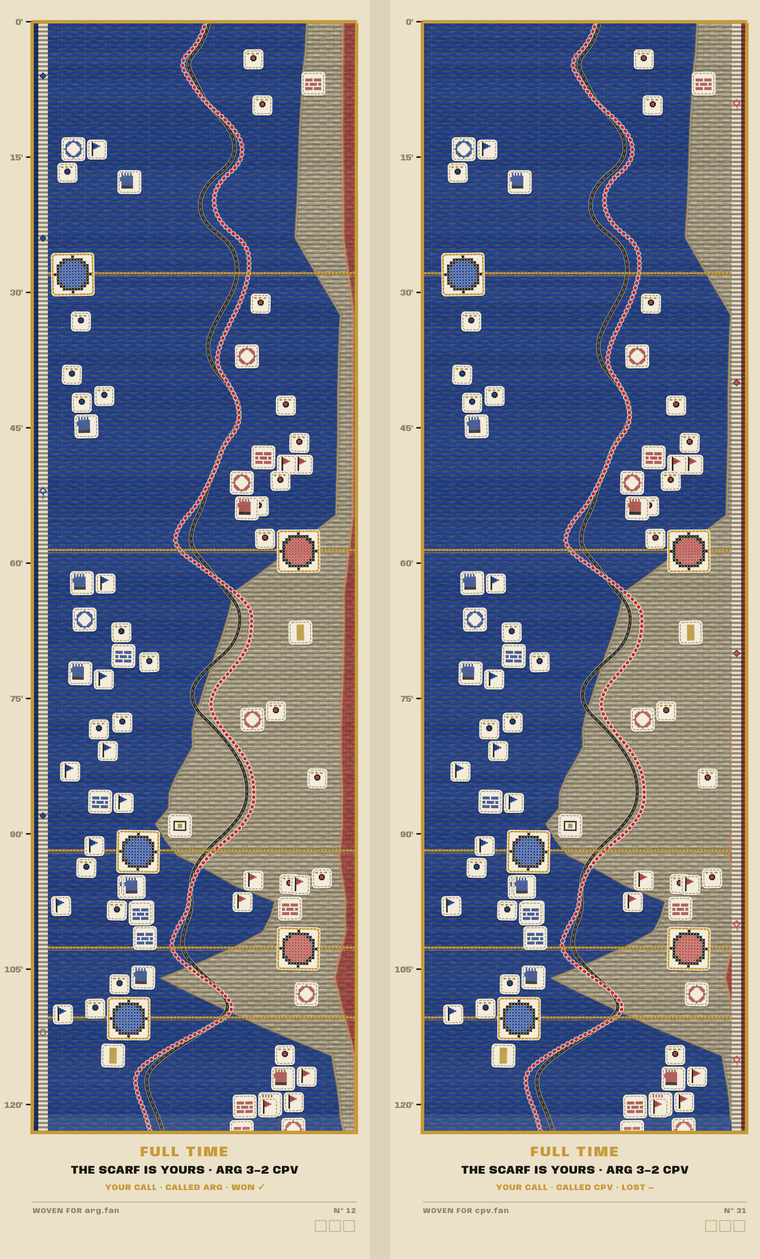
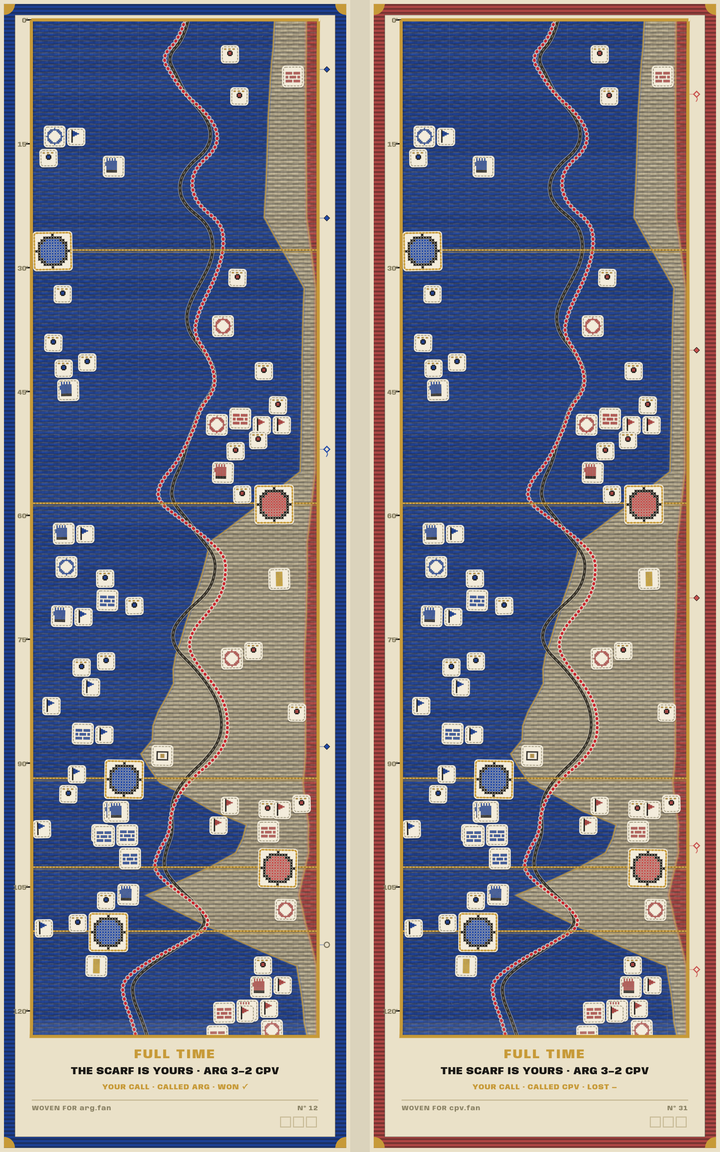
loom: personalisation redesign — fan-colour frames the whole scarf (additive)
Owner notes addressed: (1) the old selvage+tape sat ON the cloth and ate the edge odds (an
away/CPV fan's thin red band was hidden) → personalisation is now ADDITIVE, in the margin, and
the woven odds run edge-to-edge again (widened W 340→352, gx0 32, symmetric 32px margins, event
zones back to full width). (2) the rooted team now keys a bold colour FRAME around the WHOLE
scarf (blue for ARG, red for CPV) with gold Bauhaus quarter-disc corners + an inner keyline.
(3) calls knot in the paper channel just inside the frame (held/broke/void, connector to the
cloth edge); minutes moved to the left channel. Same match ⇒ identical cloth, different frame.
Prototype refreshed (scarf-two-fans.png). Review pending.

diff --git a/apps/web/public/woven-loom.html b/apps/web/public/woven-loom.html
@@ -277,7 +277,7 @@ html.lexport .ksFrame{animation:none;stroke-dashoffset:0}  /* and the gold selva
     return null; }
 
   // ---------- layout ----------
-  var W=340, top=20, botpad=26, SEALPAD=104;
+  var W=352, top=20, botpad=26, SEALPAD=104;   // wider: room for the fan-colour frame + the calls channel in the margin (the cloth's odds stay edge-to-edge)
   var loomEl=document.getElementById('loomv');
   var GOALOPT=Q.get('goalopt')||'b';   // goals read as goals (owner): weft + king, no score tab. a = +score tabs · c = king alone
   var MARKS=Q.get('marks')||'chip';    // chip = printed backing tags · cloth = stitched straight into the bands (L11 feasibility)
@@ -296,7 +296,7 @@ html.lexport .ksFrame{animation:none;stroke-dashoffset:0}  /* and the gold selva
   var possPts=[], dgrPts=[], placedMeta=[];   // last-render geometry — the cloth answers taps from these
   var TAG=null, TAGT=null;             // the one printed tag a tapped stitch pins up
   function H(){ return top+(SEALED?(SEALPAD+(PENS&&PENS.winner?12:0)+(KS.call&&KS.call.label?12:0)):botpad)+ M.dur*8.3; }   // ~8.3 px/min → the tall cloth; the sealed keepsake adds a foot for its seal
-  var gx0=30, grW=W-gx0-12;
+  var gx0=32, grW=W-gx0-32;   // symmetric 32px each side: outer(4) + fan frame(11) + channel(17) — minutes left, calls right
   function ty(m){ return top + m*8.3; }
   function gx(p){ return gx0+grW*(p/100); }
   function interp(arr,m,k){ if(!arr.length)return 50; if(m<=arr[0][0])return arr[0][k]; var L=arr.length; if(m>=arr[L-1][0])return arr[L-1][k];
@@ -532,8 +532,7 @@ html.lexport .ksFrame{animation:none;stroke-dashoffset:0}  /* and the gold selva
       svg+='<line x1="'+gx0+'" y1="'+(y-1.1).toFixed(1)+'" x2="'+(gx0+grW)+'" y2="'+(y-1.1).toFixed(1)+'" stroke="'+shade('#C79A38',1.35)+'" stroke-width="0.7" opacity="0.6" stroke-dasharray="1.2 2.1" stroke-dashoffset="1.6"/>';
       svg+='<line x1="'+gx0+'" y1="'+(y+1.3).toFixed(1)+'" x2="'+(gx0+grW)+'" y2="'+(y+1.3).toFixed(1)+'" stroke="#C79A38" stroke-width="0.9" opacity="0.5"/>'; });
     // events (thirds · sub-minute x · de-conflict)
-    var RGUT=16;   // fixed inset on BOTH edges — the match's own event tiles land in the SAME place for every fan (the cloth is objective); only the rooted margin's selvage + calls differ per person
-    var SW=grW*0.40, MIDW=grW*0.20, ZONE={h:[gx0+RGUT,gx0+SW],a:[gx0+SW+MIDW,gx0+grW-RGUT],'null':[gx0+SW,gx0+SW+MIDW]};
+    var SW=grW*0.40, MIDW=grW*0.20, ZONE={h:[gx0,gx0+SW],a:[gx0+SW+MIDW,gx0+grW],'null':[gx0+SW,gx0+SW+MIDW]};   // full width — the match's tiles use the whole cloth; personalisation lives in the margin, never on the weave
     function gs(t){return t==='goal'?2.7:(t==='freekick'||t==='corner')?1.05:1.32;}   // slightly smaller across the board (owner); the goal stays king
     var placed=[];
     EVS.sort(function(p,q){return (p.m-q.m)||((p.t==='goal'?0:1)-(q.t==='goal'?0:1));}).forEach(function(ev){
@@ -568,31 +567,33 @@ html.lexport .ksFrame{animation:none;stroke-dashoffset:0}  /* and the gold selva
       svg+='<text x="'+tx.toFixed(1)+'" y="'+(y+3.8).toFixed(1)+'" text-anchor="middle" font-family="Anybody" font-weight="900" font-size="10.5" fill="#1A1815">'+g.sc+'</text>'; });
     // the settle window breathes — a whisper of light on the newest rows only (never below the edge)
     svg+='<rect id="shimm" x="'+gx0+'" y="'+Math.max(top,ty(M.t)-16.6).toFixed(1)+'" width="'+grW+'" height="16.6" fill="#FFFFFF" opacity="0.05"/>';
-    // ---- THE ROOTED SELVAGE + YOUR CALLS — the fan's own edge (personalisation; real resolved marks only) ----
-    if(ROOT){ var rk=(ROOT==='home')?HOME:AWAY,
-        selX=(ROOT==='home')?gx0:(gx0+grW-5),          // the keyed selvage: 5px of the rooted team's dye at the very edge
-        keyX=(ROOT==='home')?(gx0+5):(gx0+grW-5),        // ink keyline between selvage and the calls tape
-        gutX=(ROOT==='home')?(gx0+5):(gx0+grW-14),       // the calls tape: a woven cream channel (9px) so knots read on ANY ground
-        knx=(ROOT==='home')?(gx0+9.5):(gx0+grW-9.5);     // knots centred in the tape
-      svg+='<rect x="'+selX.toFixed(1)+'" y="'+top+'" width="5" height="'+ch.toFixed(1)+'" fill="'+shade(rk,0.72)+'"/>';   // deep dye — reads as a keyed border even when the band beside it is the same team colour (home fan)
-      svg+='<rect x="'+selX.toFixed(1)+'" y="'+top+'" width="5" height="'+ch.toFixed(1)+'" fill="url(#tone)" color="'+shade(rk,1.15)+'" opacity="0.5"/>';
-      svg+='<rect x="'+gutX.toFixed(1)+'" y="'+top+'" width="9" height="'+ch.toFixed(1)+'" fill="#E9DFC7"/>';
-      svg+='<rect x="'+gutX.toFixed(1)+'" y="'+top+'" width="9" height="'+ch.toFixed(1)+'" fill="url(#tone)" color="#D8CBAA" opacity="0.45"/>';
-      svg+='<line x1="'+keyX.toFixed(1)+'" y1="'+top+'" x2="'+keyX.toFixed(1)+'" y2="'+(top+ch).toFixed(1)+'" stroke="#1A1815" stroke-width="0.7" opacity="0.5"/>';
-      // held = a tied knot in your colour · broke = an open dropped stitch · void = a faint loop (the match never answered)
-      CALLS.forEach(function(c){ if(c.m==null)return; var y=ty(c.m); if(y<top+2||y>top+ch-2)return; var d=2.9, DM='M '+knx.toFixed(1)+' '+(y-d).toFixed(1)+' L '+(knx+d).toFixed(1)+' '+y.toFixed(1)+' L '+knx.toFixed(1)+' '+(y+d).toFixed(1)+' L '+(knx-d).toFixed(1)+' '+y.toFixed(1)+' Z';
+    svg+='</g></g>';   // end reveal clip, end cloth silhouette
+
+    // ---- THE FAN'S FRAME + CALLS — your team's colour borders the WHOLE scarf; your calls knot in the
+    //      channel just inside it. ADDITIVE: it lives in the margin, never over the woven odds. ----
+    if(ROOT){ var rk=(ROOT==='home')?HOME:AWAY, fo=4, FW=11, fi=fo+FW, yb=HH-fo, frim=shade(rk,0.88), flit=shade(rk,1.16);
+      function frect(x,y,w,hh){ svg+='<rect x="'+x.toFixed(1)+'" y="'+y.toFixed(1)+'" width="'+w.toFixed(1)+'" height="'+hh.toFixed(1)+'" fill="'+frim+'"/><rect x="'+x.toFixed(1)+'" y="'+y.toFixed(1)+'" width="'+w.toFixed(1)+'" height="'+hh.toFixed(1)+'" fill="url(#tone)" color="'+flit+'" opacity="0.4"/>'; }
+      frect(fo,fo,W-2*fo,FW); frect(fo,HH-fi,W-2*fo,FW); frect(fo,fo,FW,HH-2*fo); frect(W-fi,fo,FW,HH-2*fo);
+      svg+='<rect x="'+fi+'" y="'+fi+'" width="'+(W-2*fi)+'" height="'+(HH-2*fi).toFixed(1)+'" fill="none" stroke="#1A1815" stroke-width="0.8" opacity="0.38"/>';   // inner keyline
+      var cr=FW;   // Bauhaus corners — a gold quarter-disc nested in each corner of the frame
+      svg+='<path d="M '+fo+' '+fo+' L '+(fo+cr)+' '+fo+' A '+cr+' '+cr+' 0 0 1 '+fo+' '+(fo+cr)+' Z" fill="#C79A38"/>';
+      svg+='<path d="M '+(W-fo)+' '+fo+' L '+(W-fo)+' '+(fo+cr)+' A '+cr+' '+cr+' 0 0 1 '+(W-fo-cr)+' '+fo+' Z" fill="#C79A38"/>';
+      svg+='<path d="M '+fo+' '+yb+' L '+fo+' '+(yb-cr)+' A '+cr+' '+cr+' 0 0 1 '+(fo+cr)+' '+yb+' Z" fill="#C79A38"/>';
+      svg+='<path d="M '+(W-fo)+' '+yb+' L '+(W-fo-cr)+' '+yb+' A '+cr+' '+cr+' 0 0 1 '+(W-fo)+' '+(yb-cr)+' Z" fill="#C79A38"/>';
+      // your calls — knotted in the paper channel between the cloth edge and the frame (never over the odds)
+      var cedge=gx0+grW, knx=cedge+(W-fi-cedge)/2, rev=ty(M.t)*(typeof unroll==='number'?unroll:1);
+      CALLS.forEach(function(c){ if(c.m==null)return; var y=ty(c.m); if(y<top+2||y>rev+1)return; var d=2.9, DM='M '+knx.toFixed(1)+' '+(y-d).toFixed(1)+' L '+(knx+d).toFixed(1)+' '+y.toFixed(1)+' L '+knx.toFixed(1)+' '+(y+d).toFixed(1)+' L '+(knx-d).toFixed(1)+' '+y.toFixed(1)+' Z';
+        svg+='<line x1="'+(cedge+1).toFixed(1)+'" y1="'+y.toFixed(1)+'" x2="'+(knx-d-0.4).toFixed(1)+'" y2="'+y.toFixed(1)+'" stroke="'+rk+'" stroke-width="0.7" opacity="0.5"/>';
         if(c.hit===true){ svg+='<path d="'+DM+'" fill="'+rk+'" stroke="#1A1815" stroke-width="0.5"/>'; }
-        else if(c.hit===false){ svg+='<path d="'+DM+'" fill="none" stroke="'+rk+'" stroke-width="1.1"/>';
-          svg+='<path d="M '+knx.toFixed(1)+' '+(y+d).toFixed(1)+' q 1.7 2.3 -0.7 4.5" fill="none" stroke="'+rk+'" stroke-width="0.9" opacity="0.8"/>'; }
-        else { svg+='<circle cx="'+knx.toFixed(1)+'" cy="'+y.toFixed(1)+'" r="'+(d-0.3).toFixed(1)+'" fill="none" stroke="#6E6752" stroke-width="1.1" opacity="0.9"/>'; }   // void: faint-but-present grey ring — survives phone scale, never reads as an outcome
+        else if(c.hit===false){ svg+='<path d="'+DM+'" fill="none" stroke="'+rk+'" stroke-width="1.1"/><path d="M '+knx.toFixed(1)+' '+(y+d).toFixed(1)+' q 1.7 2.3 -0.7 4.5" fill="none" stroke="'+rk+'" stroke-width="0.9" opacity="0.8"/>'; }
+        else { svg+='<circle cx="'+knx.toFixed(1)+'" cy="'+y.toFixed(1)+'" r="'+(d-0.3).toFixed(1)+'" fill="none" stroke="#6E6752" stroke-width="1.1" opacity="0.9"/>'; }
       });
     }
-    svg+='</g></g>';   // end reveal clip, end cloth silhouette
 
     // minute rails (always visible, past + future)
     for(var mn=0;mn<=DUR+1;mn+=15){var y=ty(mn);
       svg+='<line x1="'+(gx0-6)+'" y1="'+y+'" x2="'+gx0+'" y2="'+y+'" stroke="#1A1815" stroke-width="1.4"/>';
-      svg+='<text x="'+(gx0-9)+'" y="'+(y+3)+'" text-anchor="end" font-family="Anybody" font-weight="700" font-size="8" fill="#8C8467">'+mn+"'</text>";}
+      svg+='<text x="'+(gx0-4)+'" y="'+(y+3)+'" text-anchor="end" font-family="Anybody" font-weight="700" font-size="7" fill="#8C8467">'+mn+"'</text>";}
     // the live shuttle / weaving edge — only on the un-sealed cloth; the frozen keepsake has no shuttle.
     // The shuttle is MECHANISM, so it wears the loom's own materials (bone + ink) — gold belongs
     // to the market's voice and the rare mark, never to the machine (gold audit).